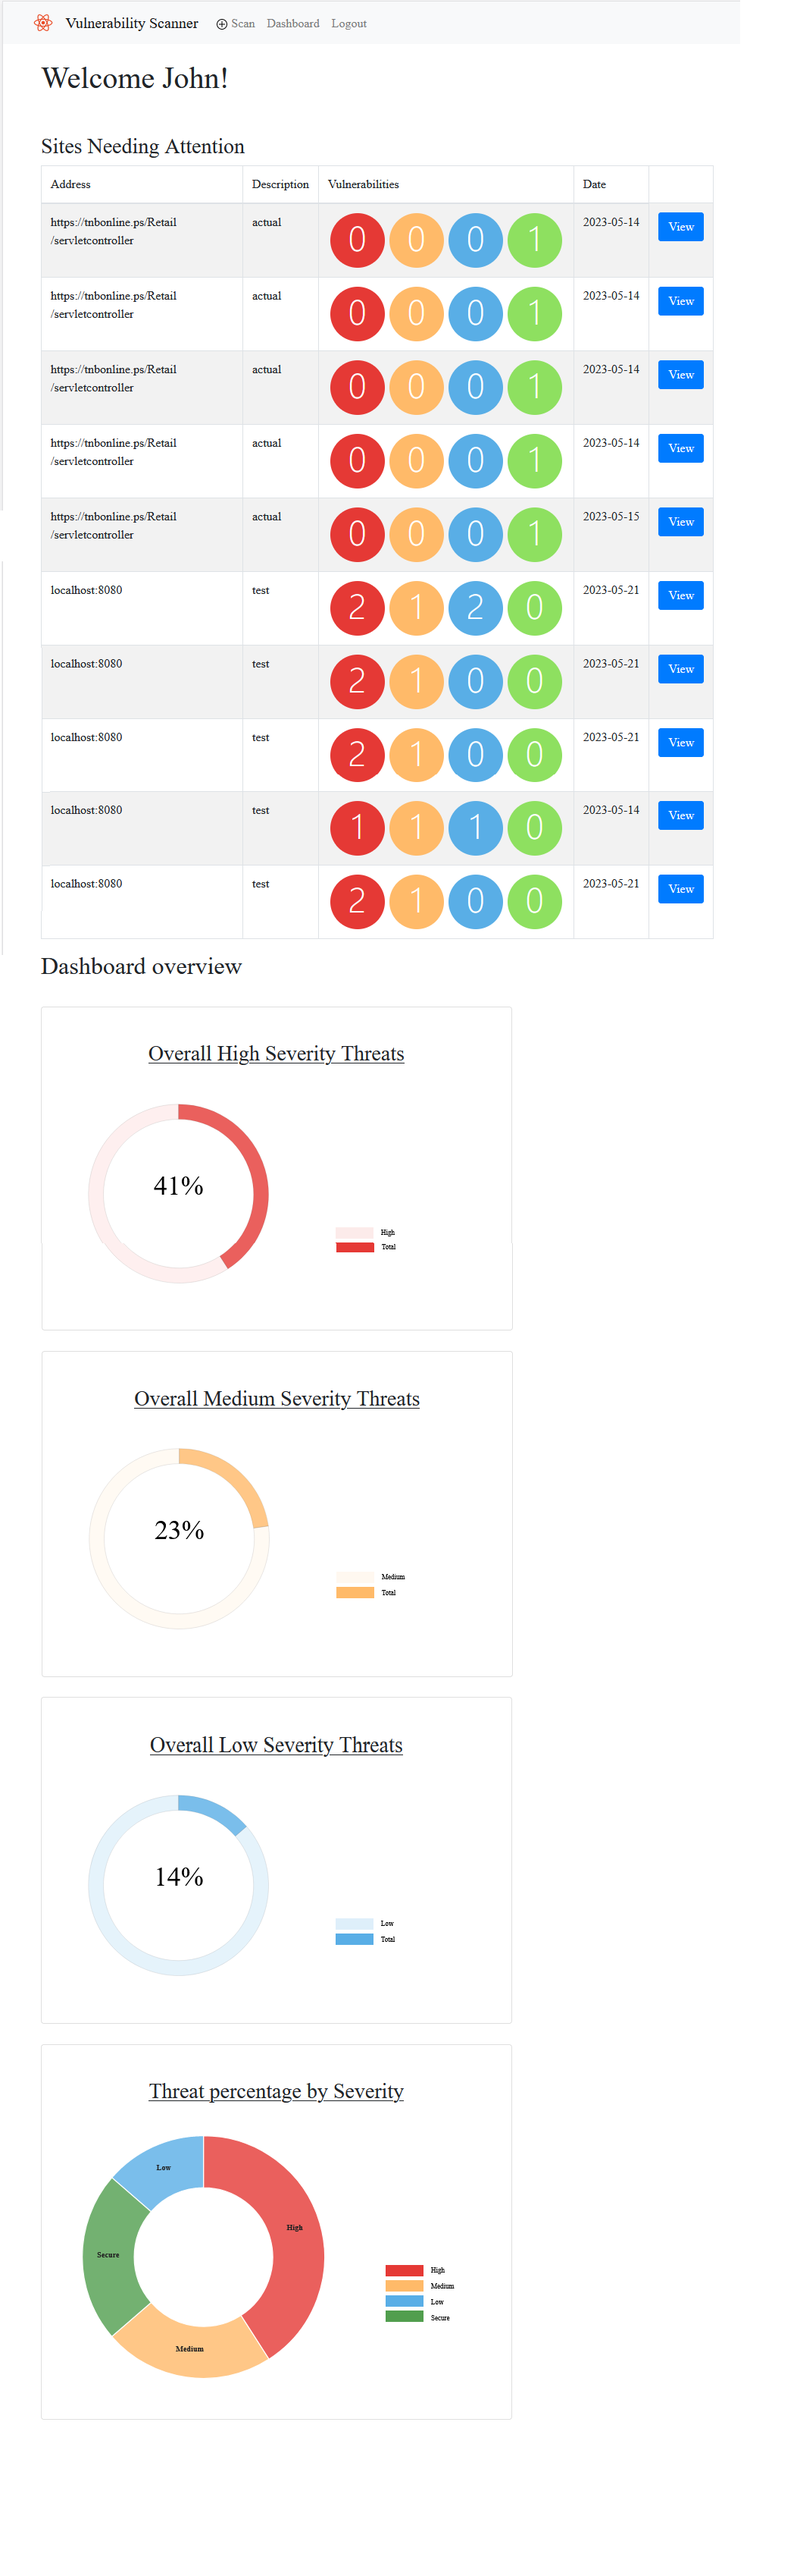
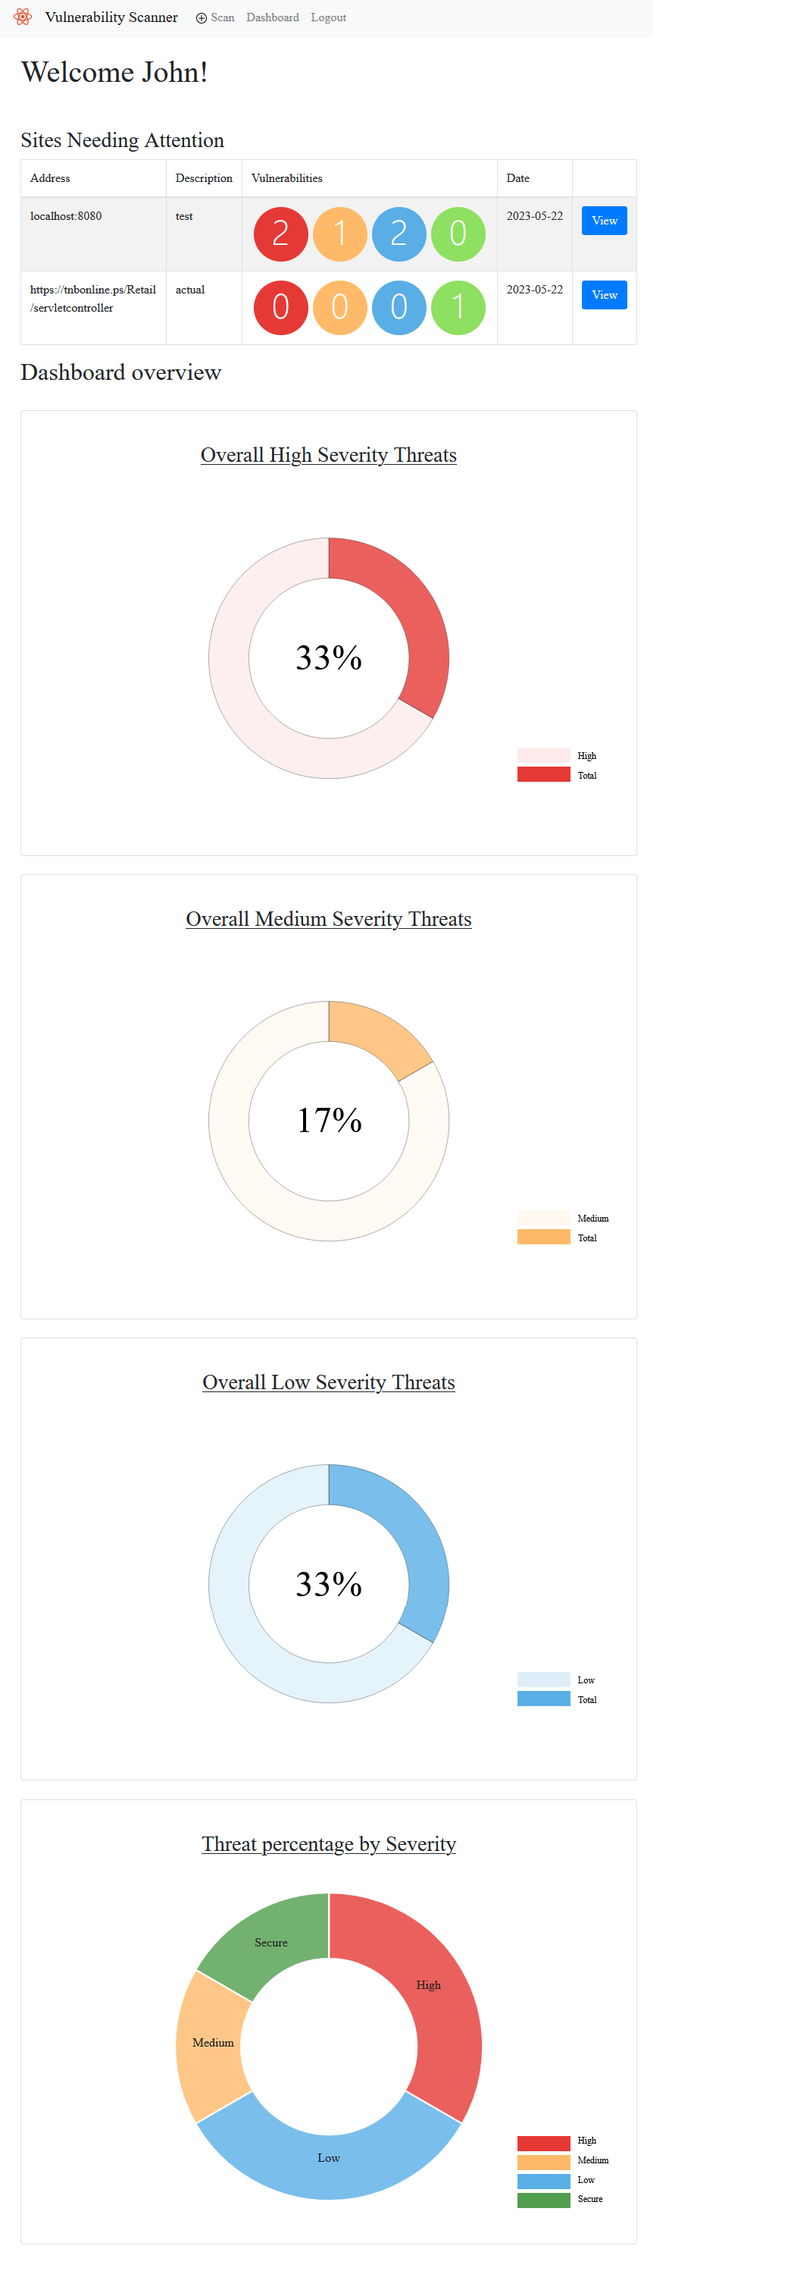
dashboard view enhancement

diff --git a/src/main/js/components/DonutChart.js b/src/main/js/components/DonutChart.js
@@ -12,6 +12,7 @@ class DonutChart extends Component {
     constructor(props) {
         super(props);
         this.chRef = React.createRef();
+        this.chRefLegend = React.createRef();
     }
 
     // Chart load after component Mount
@@ -78,29 +79,29 @@ class DonutChart extends Component {
             .style("text-anchor", "middle")
             .style("font-weight", 500)
             .style("fill", '#222')
-            .style("font-size", "22px");
+            .style("font-size", "15px");
 
-        const legend = d3.select(this.chRef.current)
+        const legend = d3.select(this.chRefLegend.current)
                 .append("svg")
                 .attr("class", "hello")
-                .attr("transform", "translate(30, 180)");
+                .attr("transform", "translate(30, 30)");
 
         legend
             .selectAll("whatever")
             .data(data_ready)
             .enter()
             .append("svg")
-            .attr("transform", (d, i) => { return "translate(" + 40 + "," + (  i * 20) + ")" })
+            .attr("transform", (d, i) => { return "translate(" + 0 + "," + (  i * 25) + ")" })
             .append("rect")
-            .attr("width", 50)
-            .attr("height", 15)
+            .attr("width", 70)
+            .attr("height", 20)
             .attr("fill", (d, i) => { return colors[i]} )
             .attr("class", (d, i) => { return i});
 
         legend.selectAll("svg").append('text')
             .text((d, i) => { return d.data.name})
-            .attr("transform", (d, i) => { return "translate(60, " + (i * 0.9 + 10) + ")" })
-            .style("font-size", "15px");
+            .attr("transform", (d, i) => { return "translate(80, " + (i * 0.8 + 10) + ")" })
+            .style("font-size", "12px");
 
         // legend.append("text")
         //     .text(function(d){
@@ -126,10 +127,18 @@ class DonutChart extends Component {
 
     render() {
         return (
-        <div>
+            <div>
             <h3 className="chart-title-text"><u>{ this.props.title }</u></h3>
             <br/>
-            <div className="justify-content-between d-flex" ref={this.chRef}></div>
+            <div className="severity-pie-chart">
+                <div className="severity-pie-chart-margin-div"/>
+                <div className="severity-pie-chart-center" ref={this.chRef}/>
+                <div className="severity-pie-chart-margin-div">
+                    <div className="severity-pie-chart-mirgin-div-top"/>
+                    <div className="severity-pie-chart-margin-div-bottom" ref={this.chRefLegend}/>
+                </div>
+            </div>
+            
         </div>
         );
     }

diff --git a/src/main/js/components/SeverityPieChart.js b/src/main/js/components/SeverityPieChart.js
@@ -104,7 +104,7 @@ class SeverityPieChart extends Component {
         const legend = d3.select(this.chRefLegend.current)
                 .append("svg")
                 // .attr("class", "hello")
-                .attr("transform", "translate(30, 180)");
+                .attr("transform", "translate(30, 30)");
 
         legend
             .selectAll("whatever")
@@ -133,7 +133,10 @@ class SeverityPieChart extends Component {
                 <div className="severity-pie-chart">
                     <div className="severity-pie-chart-margin-div"/>
                     <div className="severity-pie-chart-center" ref={this.chRef}/>
-                    <div className="severity-pie-chart-margin-div" ref={this.chRefLegend}/>
+                    <div className="severity-pie-chart-margin-div">
+                        <div className="severity-pie-chart-mirgin-div-top"/>
+                        <div className="severity-pie-chart-margin-div-bottom" ref={this.chRefLegend}/>
+                    </div>
                 </div>
                 
             </div>

diff --git a/src/main/js/components/Dashboard.js b/src/main/js/components/Dashboard.js
@@ -123,8 +123,6 @@ export const Dashboard = () => {
                         <div className="card right">
                             <DonutChart title="Threat percentage by Severity" data={pieChartValueCount} />
                         </div>
-                       
-
                     </div >
                     <br />
                 </div >

diff --git a/src/main/js/style/main.css b/src/main/js/style/main.css
@@ -107,6 +107,14 @@
   width: 20%;
 }
 
+.severity-pie-chart-mirgin-div-top {
+  height: 70%;
+}
+
+.severity-pie-chart-mirgin-div-bottom {
+  height: 30%;
+}
+
 .form-on-button {
     position: absolute;
     width: 24%;

diff --git a/src/main/java/net/scanner/backend/config/DatabaseDummyData.java b/src/main/java/net/scanner/backend/config/DatabaseDummyData.java
@@ -73,9 +73,12 @@ public class DatabaseDummyData {
     //         20,
     //         "WASC-08",
     //         "username",
-    //         new LinkedList<String>()));
-        
-    //     scan.addThreat(new Alert(
+    //         new LinkedList<String>() {{
+    //             add("http://projects.webappsec.org/Cross-Site-Scripting");
+    //             add("http://cwe.mitre.org/data/definitions/79.html");
+    //         }}));
+
+    //         scan.addThreat(new Alert(
     //         "/register.php",
     //         "Reflected cross site scripting",
     //         "Reflected attacks are those where the injected script is reflected off the web server, such as in an error message, search result, or any other response that includes some or all of the input sent to the server as part of the request. Reflected attacks are delivered to victims via another route, such as in an e-mail message, or on some other website. When a user is tricked into clicking on a malicious link, submitting a specially crafted form, or even just browsing to a malicious site, the injected code travels to the vulnerable web site, which reflects the attack back to the user’s browser. The browser then executes the code because it came from a \"trusted\" server. Reflected XSS is also sometimes referred to as Non-Persistent or Type-II XSS.\n\n More information about Cross-Site Scripting can be found here.", 
@@ -85,7 +88,10 @@ public class DatabaseDummyData {
     //         20,
     //         "WASC-08",
     //         "username",
-    //         new LinkedList<String>()));
+    //         new LinkedList<String>() {{
+    //             add("http://projects.webappsec.org/Cross-Site-Scripting");
+    //             add("http://cwe.mitre.org/data/definitions/79.html");
+    //         }}));
             
 
 
